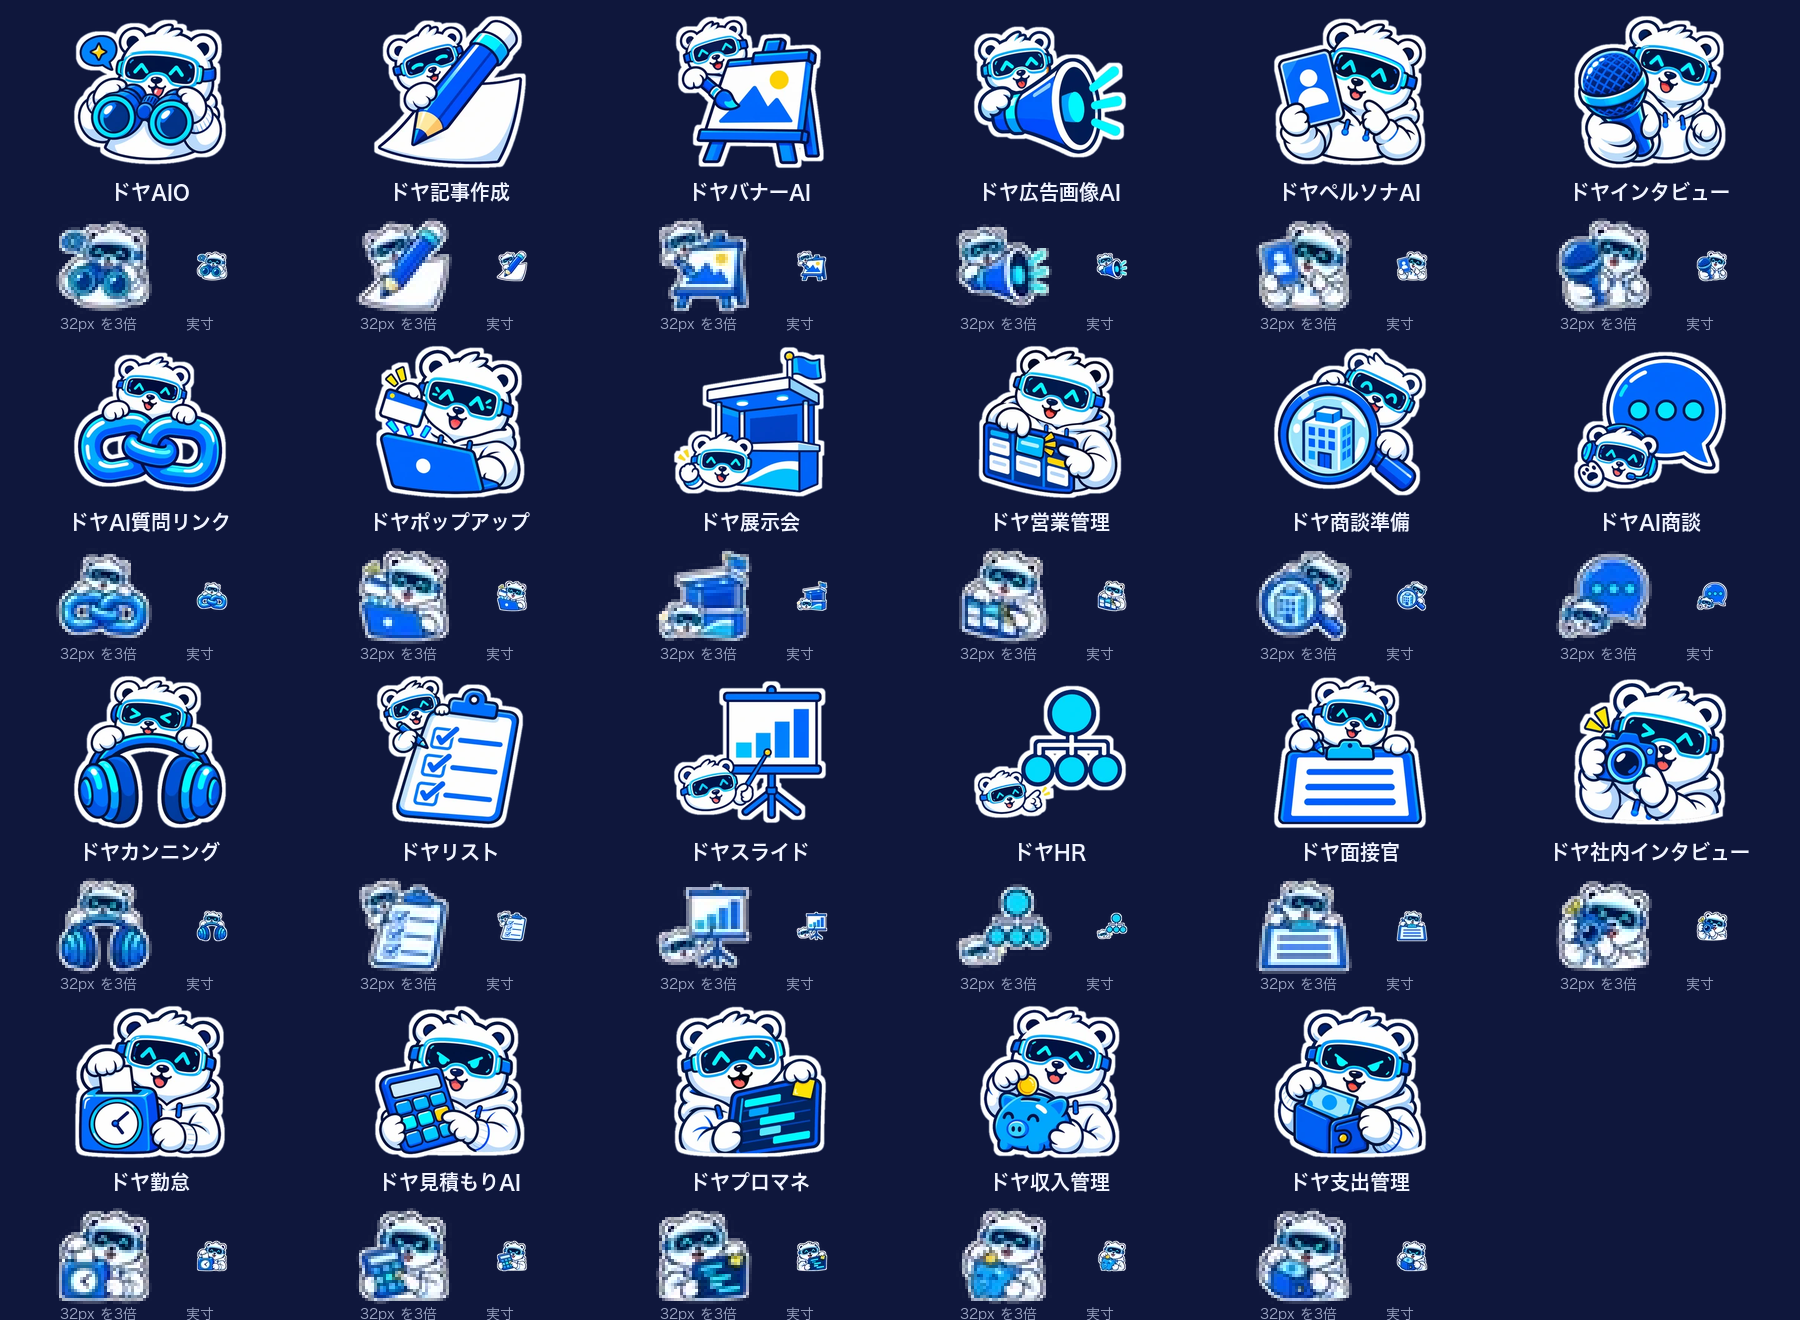
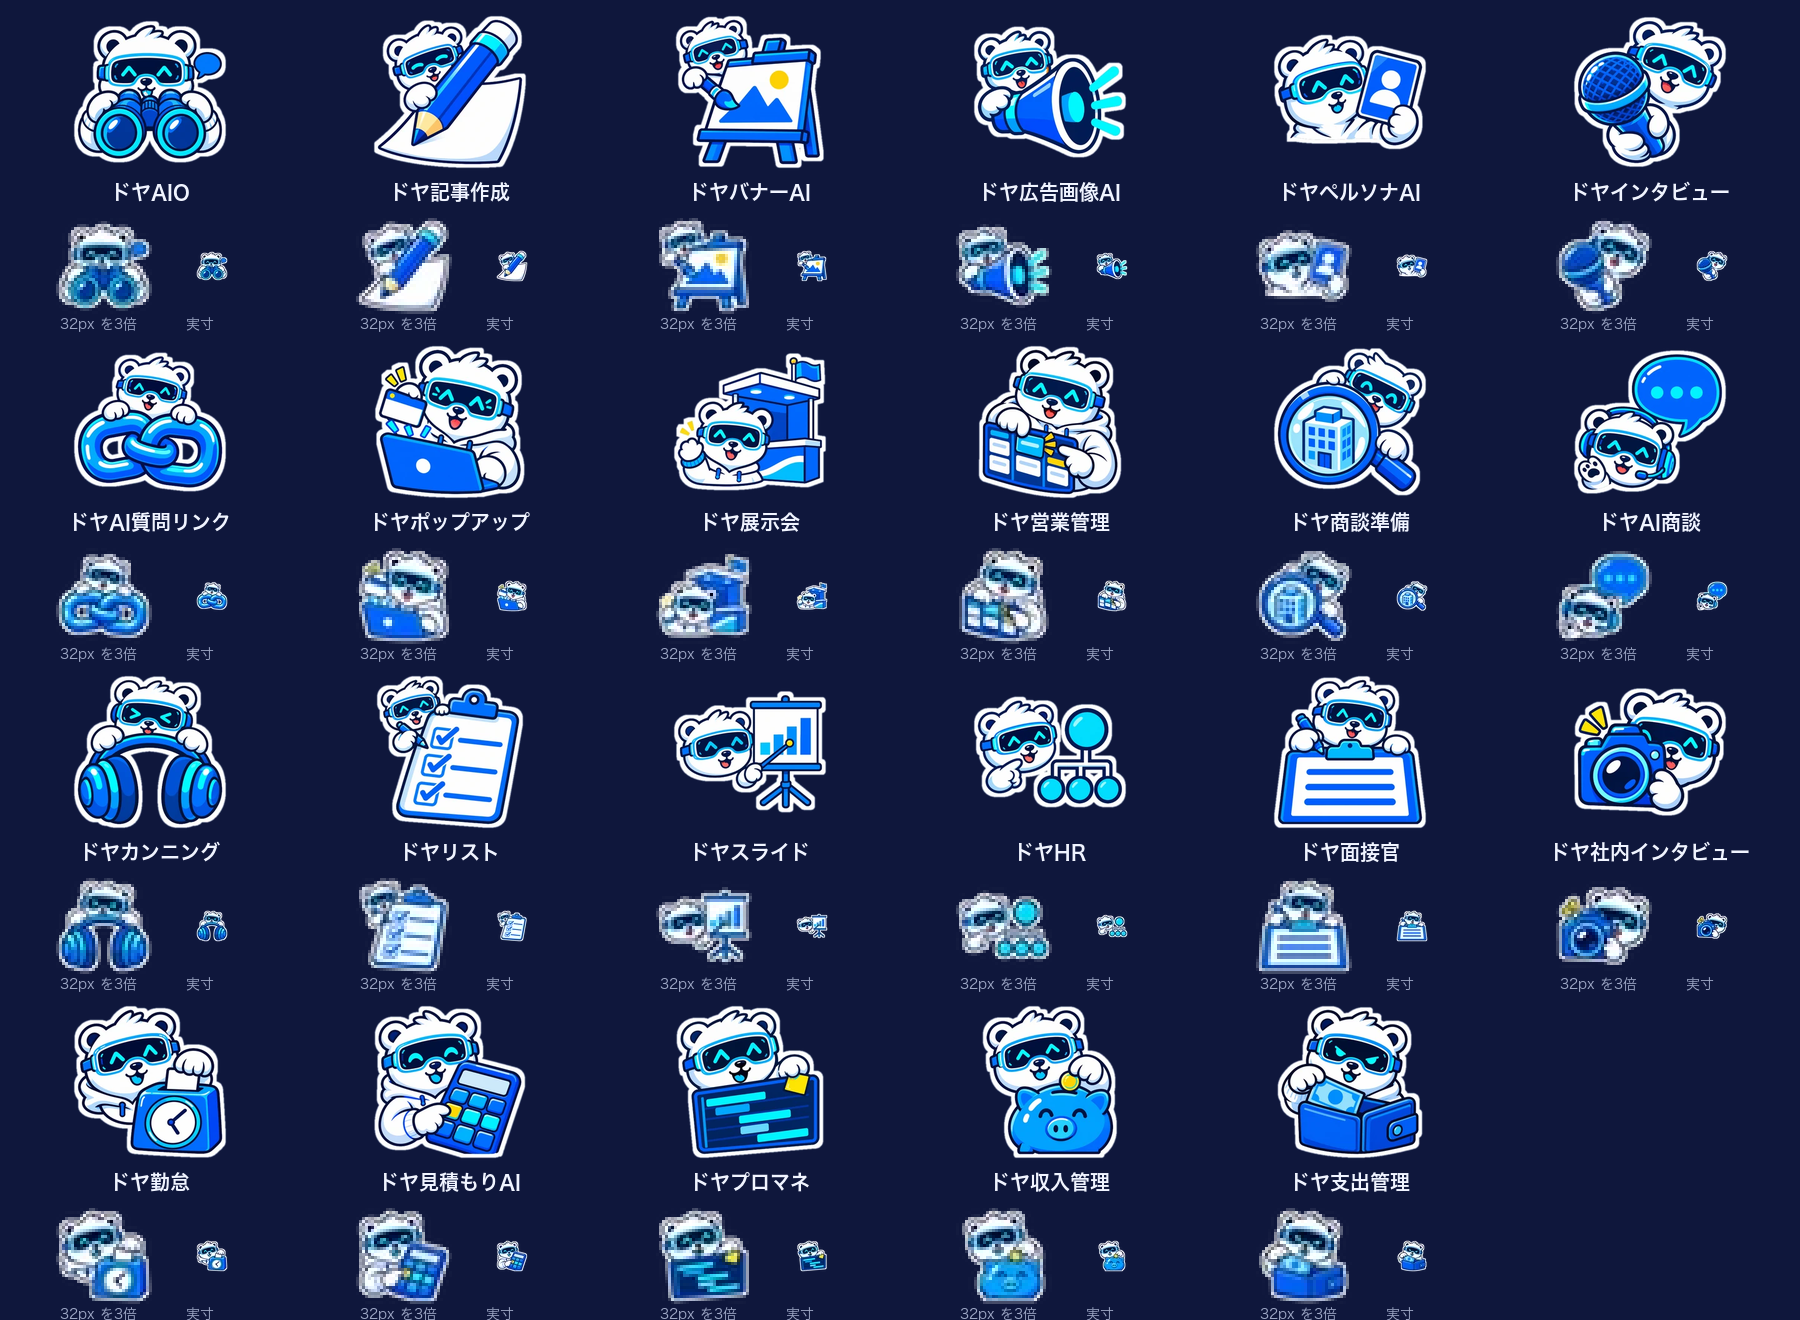
fix(shell): メニューのクマの絵の寄せ方をそろえる（道具が半分・顔が3分の1）
- 14枚を1つの基準で描き直した。勤怠・見積・プロマネ・収入・支出・AIO・ペルソナ・インタビュー・社内インタビューは道具を大きく、展示会・AI商談・HR・スライドはクマの顔が読める大きさに戻した
- カンニングは、描き直しでヘッドホンを頭にかけて顔が大きくなったため、前の版（大きなヘッドホンを前に持つ）を使う
- 生成は Codex の内蔵の画像生成（定額）。一覧画像を作り直した

diff --git a/docs/design/images/shell-bear/PROMPTS.md b/docs/design/images/shell-bear/PROMPTS.md
@@ -82,6 +82,7 @@ Save all files and then list the raw/ folder.
 
 1. 1回目: 各ツールの全身の絵（生成の元の PNG）を参照に渡し、「頭と肩だけ＋道具を絵の40%以上」で23枚を描き直した（`tools/make_prompt_menu.py`）。
 2. 2回目: 1回目のうち顔がまだ大きかった12枚（記事・バナー・広告画像・質問リンク・展示会・商談準備・AI商談・カンニング・リスト・スライド・人事・面接官）を、「道具を絵の半分以上、クマは小さな頭だけ」で描き直した（`tools/redo-menu.json`）。AI商談は吹き出し、カンニングは大きなヘッドホンにして、似ていた2つを分けた。
-3. 採用した版: 上の12枚は2回目、ほかの11枚は1回目。
-4. 書き出し: `tools/process.py <raw> <out> 32|64`。一覧は `screens/menu-23-light.png`・`menu-23-dark.png`（32px の実寸と3倍の行つき）。
-5. 生成はどれも Codex の内蔵の画像生成（定額）。従量課金の API は使っていない。
+3. 3回目（2026-10-27、メインの指摘）: 寄せ方をそろえるため、14枚を「道具が絵の半分ほど、クマの顔が3分の1ほど」の1つの基準で描き直した（`tools/redo-menu-2.json`）。道具を大きくしたのは勤怠・見積・プロマネ・収入・支出・AIO・ペルソナ・インタビュー・社内インタビュー、クマを大きく戻したのは展示会・AI商談・HR・スライド。
+4. 採用した版: 3回目の13枚（上の14枚からカンニングを除く）、2回目の8枚（記事・バナー・広告画像・質問リンク・商談準備・カンニング・リスト・面接官）、1回目は営業管理とポップアップの2枚。カンニングは3回目でヘッドホンを頭にかけて顔が大きくなったので、2回目の版を使う。
+5. 書き出し: `tools/process.py <raw> <out> 32|64`。一覧は `screens/menu-23-light.png`・`menu-23-dark.png`（32px の実寸と3倍の行つき）。
+6. 生成はどれも Codex の内蔵の画像生成（定額）。従量課金の API は使っていない。
